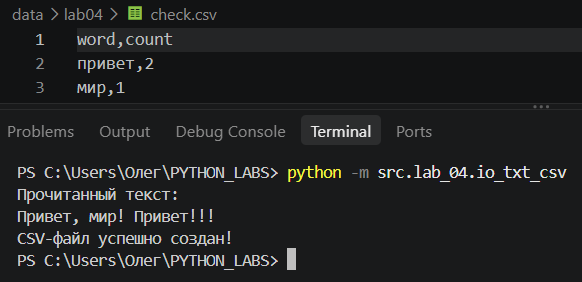
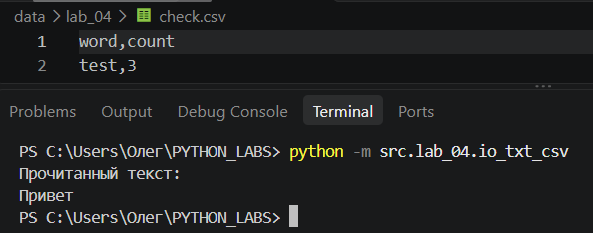
исправил 3 лабу

diff --git a/src/lab_04/io_txt_csv.py b/src/lab_04/io_txt_csv.py
@@ -34,11 +34,11 @@ def write_csv(
 
         writer.writerows(rows)
 if __name__ == "__main__":
-    txt = read_text("data/lab04/input.txt")
+    txt = read_text("data/lab_04/input.txt", encoding="cp1251")
     print("Прочитанный текст:")
     print(txt)
 
     write_csv(
         [("word", "count"), ("test", 3)],
-        "data/lab04/check.csv"
+        "data/lab_04/check.csv"
     )

diff --git a/src/lab_04/README.md b/src/lab_04/README.md
@@ -192,7 +192,7 @@ def main() -> None:
                 args.encoding
             )
     except (FileNotFoundError, UnicodeDecodeError) as error:
-        print(f"Ошибка чтения файла: {error}", file=sys.stderr)
+        print(f"Ошибка чтения файла: {error}")
         sys.exit(1)
 
 
